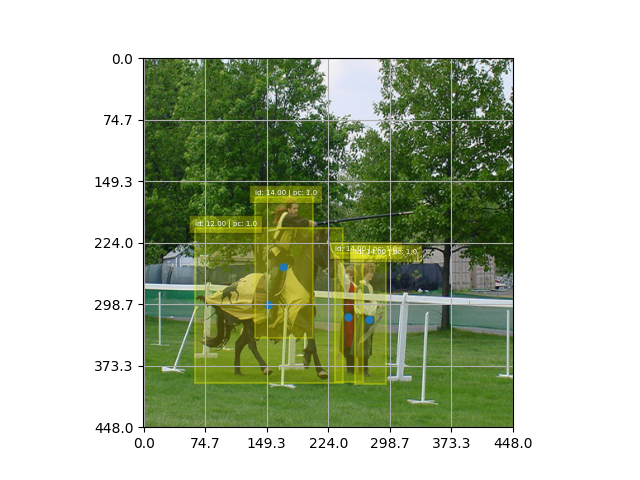
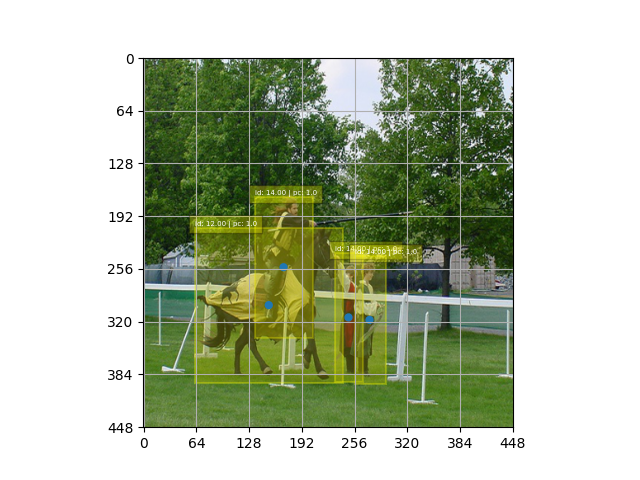
updated assets

diff --git a/2D_ObjectDetectors/yolov1/network/dataset.py b/2D_ObjectDetectors/yolov1/network/dataset.py
@@ -283,27 +283,27 @@ class VOCDataset(torch.utils.data.Dataset):
             # print(W, H, " >>> ", bw, bh)
             cx, cy = cx * W, cy * H
             bw, bh = bw * W, bh * H
-            # rec = patches.Rectangle(
-            #     (cx-bw//2, cy-bh//2), bw, bh, 
-            #     edgecolor="yellow", alpha=1.,
-            #     linewidth=1.5, facecolor="none", linestyle="-"
-            # )
-            # rec = patches.Rectangle(
-            #     (cx-bw//2, cy-bh//2), bw, bh, 
-            #     edgecolor="yellow", alpha=0.3,
-            #     linewidth=1.5, facecolor="y"
-            # )
-            # txt = ax.text(
-            #     (cx-bw//2), cy-(bh//2),  f"id: {class_ids[i]:0.2f} | pc: {scores[i]}", size=5, 
-            #     ha="left", va="bottom", alpha=1, color="white",
-            #     bbox=dict(facecolor="yellow", edgecolor="black", linewidth=1, alpha=0.3),
-            # )
+            rec = patches.Rectangle(
+                (cx-bw//2, cy-bh//2), bw, bh, 
+                edgecolor="yellow", alpha=1.,
+                linewidth=1.5, facecolor="none", linestyle="-"
+            )
+            rec = patches.Rectangle(
+                (cx-bw//2, cy-bh//2), bw, bh, 
+                edgecolor="yellow", alpha=0.3,
+                linewidth=1.5, facecolor="y"
+            )
+            txt = ax.text(
+                (cx-bw//2), cy-(bh//2),  f"id: {class_ids[i]:0.2f} | pc: {scores[i]}", size=5, 
+                ha="left", va="bottom", alpha=1, color="white",
+                bbox=dict(facecolor="yellow", edgecolor="black", linewidth=1, alpha=0.3),
+            )
             ax.imshow(image)
-            # ax.add_patch(rec)
+            ax.add_patch(rec)
+            ax.add_artist(plt.Circle((cx, cy), 5))
+            ax.set_xticks(np.linspace(0, 448, num=8))
+            ax.set_yticks(np.linspace(0, 448, num=8))
+            ax.grid(True)
             # plt.pause(0.5)
-            # ax.add_artist(plt.Circle((cx, cy), 5))
-            ax.set_xticks(np.linspace(0, 448, num=7))
-            # ax.set_yticks(np.linspace(0, 448, num=7))
-            # ax.grid(True)
         plt.show()
     

diff --git a/2D_ObjectDetectors/yolov1/network/test/test_dataset.py b/2D_ObjectDetectors/yolov1/network/test/test_dataset.py
@@ -102,7 +102,7 @@ class TestModel(TestCase):
         #     [0.612, 0.709, 0.084, 0.347], decimal=3
         # )
         org_size = (500, 375)
-        VOCDataset.show_boxes(imgsrc, denormed_boxes, class_ids, scores, org_size)
+        VOCDataset.show_boxes(imgsrc, denormed_boxes, class_ids, scores)
         imgsrc.close()
 
 

diff --git a/2D_ObjectDetectors/yolov1/README.md b/2D_ObjectDetectors/yolov1/README.md
@@ -168,10 +168,17 @@ Estimated Total Size (MB): 1491.00
 <br><br><br>
 
 # YOLO Loss
-```
-$$\lambda_{coord}\sum_{i=0}^{s^2}\sum_{j=0}^{B}\mathbb{1}^{obj}_{ij}(x_i-\hat{x_i})^2+(y_i-\hat{y_i})^2$$
-$$+\lambda_{coord}\sum_{i=0}^{s^2}\sum_{j=0}^{B}\mathbb{1}^{obj}_{ij}(\sqrt{w_i}-\sqrt{\hat{w_i}})^2+(\sqrt{h_i}-\sqrt{\hat{h_i}})^2$$
-$$+\lambda_{noobj}\sum_{i=0}^{s^2}\sum_{j=0}^{B}\mathbb{1}^{noobj}_{ij}(c_i-\hat{c_i})^2$$
-$$+\sum_{i=0}^{s^2}\sum_{j=0}^{B}\mathbb{1}^{obj}_{ij}(c_i-\hat{c_i})^2$$
-$$+\sum_{i=0}^{s^2}\mathbb{1}^{obj}_{i}\sum_{c\in{classes}}(p_i(c)-\hat{p}_i(c))^2$$
+
+<img src="assets/yolo_loss.png">
+
+```latex
+<img src="$\lambda_{coord}\sum_{i=0}^{s^2}\sum_{j=0}^{B}\mathbb{1}^{obj}_{ij}(x_i-\hat{x_i})^2+(y_i-\hat{y_i})^2$
+
+$+\lambda_{coord}\sum_{i=0}^{s^2}\sum_{j=0}^{B}\mathbb{1}^{obj}_{ij}(\sqrt{w_i}-\sqrt{\hat{w_i}})^2+(\sqrt{h_i}-\sqrt{\hat{h_i}})^2$
+
+$+\lambda_{noobj}\sum_{i=0}^{s^2}\sum_{j=0}^{B}\mathbb{1}^{noobj}_{ij}(c_i-\hat{c_i})^2$
+
+$+\sum_{i=0}^{s^2}\sum_{j=0}^{B}\mathbb{1}^{obj}_{ij}(c_i-\hat{c_i})^2$
+
+$+\sum_{i=0}^{s^2}\mathbb{1}^{obj}_{i}\sum_{c\in{classes}}(p_i(c)-\hat{p}_i(c))^2$">
 ```
